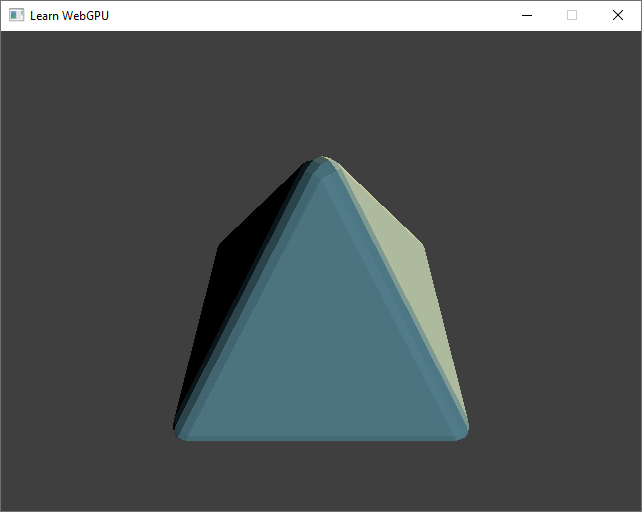
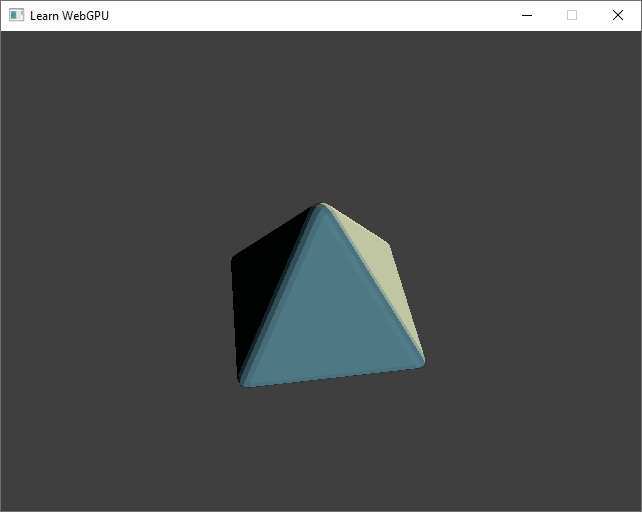
Update chapter mesh from obj file

Changed region(s): [[0.2492, 0.2812, 0.7477, 0.875]]

diff --git a/basic-3d-rendering/3d-meshes/loading-from-file.md b/basic-3d-rendering/3d-meshes/loading-from-file.md
@@ -9,17 +9,13 @@ Loading from file
 *Resulting code:* [`step058-vanilla`](https://github.com/eliemichel/LearnWebGPU-Code/tree/step058-vanilla)
 ````
 
-This time, we are ready to load **an actual 3D file format**, so that you can play with any model you'd like.
+This time, we are ready to load **an actual 3D file format** instead of the ad-hoc one we have been using so far, so that you can play with any model you'd like.
 
 In this chapter we load 3D models from the [OBJ](https://en.wikipedia.org/wiki/Wavefront_.obj_file) format. This is a very common format for storing 3D meshes with extra attributes (vertex colors, normals, but also texture coordinates and any other arbitrary data). You can for instance create an OBJ file by exporting it from [Blender](https://www.blender.org/).
 
-```{admonition} WIP
-From this chapter on, the example WGSL code uses templated types `vec2f` where we can use simpler aliases `vec2f` because when I first wrote this aliases were not supported by `wgpu-native`.
-```
-
 ## TinyOBJLoader
 
-Instead of manually parsing OBJ files, we use the [TinyOBJLoader](https://github.com/tinyobjloader/tinyobjloader) library. The file format is not that complex, but parsing files is not the main point of this tutorial series, and this library has been intensively tested and has a very small footprint.
+Instead of manually parsing OBJ files, we use the [TinyOBJLoader](https://github.com/tinyobjloader/tinyobjloader) library. The file format is **not that complex**, but parsing files is not the main point of this tutorial series, and this library has been intensively tested and has a very small footprint.
 
 Similarly to [our `webgpu.hpp` wrapper](/getting-started/cpp-idioms.md), TinyOBJLoader is made of a single file [`tiny_obj_loader.h`](https://raw.githubusercontent.com/tinyobjloader/tinyobjloader/release/tiny_obj_loader.h) that you may simply save next to your `main.cpp`. Exactly one of your source files must define `TINYOBJLOADER_IMPLEMENTATION` before including it:
 
@@ -65,14 +61,14 @@ bool loadGeometryFromObj(const fs::path& path, std::vector<VertexAttributes>& ve
 }
 ```
 
-Once the tinyobj-specific structures are filled in (`shape_t`, `attrib_t`), we can extract our vertex array data:
+Once the tinyobj-specific structures are filled in (`shape_t`, `attrib_t`), we can extract our vertex array data, making the code a bit clearer:
 
 ```C++
 // Filling in vertexData:
 const auto& shape = shapes[0]; // look at the first shape only
 
 vertexData.resize(shape.mesh.indices.size());
-for (int i = 0; i < vertexData.size(); ++i) {
+for (int i = 0; i < shape.mesh.indices.size(); ++i) {
 	const tinyobj::index_t& idx = shape.mesh.indices[i];
 
 	vertexData[i].position = {
@@ -113,6 +109,7 @@ for (const auto& shape : shapes) {
 
 We stop using indexed drawing but switch to a vector of `VertexAttributes` rather than a blind vector of `float` for the vertex buffer data:
 
+````{tab} With webgpu.hpp
 ```C++
 std::vector<VertexAttributes> vertexData;
 bool success = loadGeometryFromObj(RESOURCE_DIR "/pyramid.obj", vertexData);
@@ -132,9 +129,44 @@ renderPass.setVertexBuffer(0, vertexBuffer, 0, vertexData.size() * sizeof(Vertex
 // (remove renderPass.setIndexBuffer)
 // [...]
 renderPass.draw(indexCount, 1, 0, 0);
+// [...]
+// (remove indexBuffer destruction)
+```
+````
+
+````{tab} Vanilla webgpu.h
+```C++
+std::vector<VertexAttributes> vertexData;
+bool success = loadGeometryFromObj(RESOURCE_DIR "/pyramid.obj", vertexData);
+if (!success) {
+	std::cerr << "Could not load geometry!" << std::endl;
+	return 1;
+}
+// [...]
+bufferDesc.size = vertexData.size() * sizeof(VertexAttributes);
+// [...]
+wgpuQueueWriteBuffer(queue, vertexBuffer, 0, vertexData.data(), bufferDesc.size);
+// [...]
+int indexCount = static_cast<int>(vertexData.size());
+// (remove 'Create index buffer')
+// [...]
+wgpuRenderPassSetVertexBuffer(renderPass, 0, vertexBuffer, 0, vertexData.size() * sizeof(VertexAttributes));
+// (remove wgpuRenderPassSetIndexBuffer)
+// [...]
+wgpuRenderPassDraw(renderPass, indexCount, 1, 0, 0);
+// [...]
+// (remove indexBuffer destruction)
+```
+````
+
+One last thing we need is to increase the maximum buffer size to be able to load various meshes:
+
+```C++
+// Update max buffer size to allow up to 10000 vertices in the loaded file:
+requiredLimits.limits.maxBufferSize = 10000 * sizeof(VertexAttributes);
 ```
 
-Test this with [pyramid.obj](../../data/pyramid.obj), which is the same pyramid but with beveled (smoothed) edges:
+Test this with [pyramid.obj](../../data/pyramid.obj), which is the same pyramid but with beveled edges (I also set the `T1 = mat4x4(1.0)` and `focalPoint = vec3(0.0, 0.0, -1.0)`):
 
 ```{figure} /images/pyramid-obj-yup.png
 :align: center
@@ -142,9 +174,19 @@ Test this with [pyramid.obj](../../data/pyramid.obj), which is the same pyramid 
 The 3D model is correctly loaded but not oriented as expected.
 ```
 
+````{note}
+If you see a warning about missing material information when loading the OBJ, do not worry:
+
+```
+material [ 'None' ] not found in .mtl
+```
+
+OBJ files may have a companion .mtl file providing information about materials but we do not use this information here.
+````
+
 ## Vertical axis convention
 
-There is **no consensus** among 3D modeling and 3D rendering tools, but file formats usually impose a convention. In the case of the OBJ format, it is specified that **the Y axis represents the upward vertical direction**.
+There is **no consensus** among 3D modeling and 3D rendering tools about which axis should represent the vertical direction. But file formats usually impose a convention. In the case of the OBJ format, it is specified that **the Y axis represents the upward vertical direction**.
 
 Since we have been implicitly following the convention that **Z is the vertical in our code**, we need to either change our convention (by changing the view matrix) or convert upon loading. I chose the latter:
 

diff --git a/basic-3d-rendering/texturing/a-first-texture.md b/basic-3d-rendering/texturing/a-first-texture.md
@@ -15,6 +15,10 @@ Theoretically, a GPU buffer could be used to store the texture data, and the sha
 
 This is why although all types of **resources** live in the VRAM, **buffers**, **textures** and **storage textures** are different objects in the WebGPU API (as well as in all other graphics APIs).
 
+```{admonition} WIP
+From this chapter on, the example WGSL code uses templated types `vec2f` where we can use simpler aliases `vec2f` because when I first wrote this aliases were not supported by `wgpu-native`.
+```
+
 Texture creation
 ----------------
 
